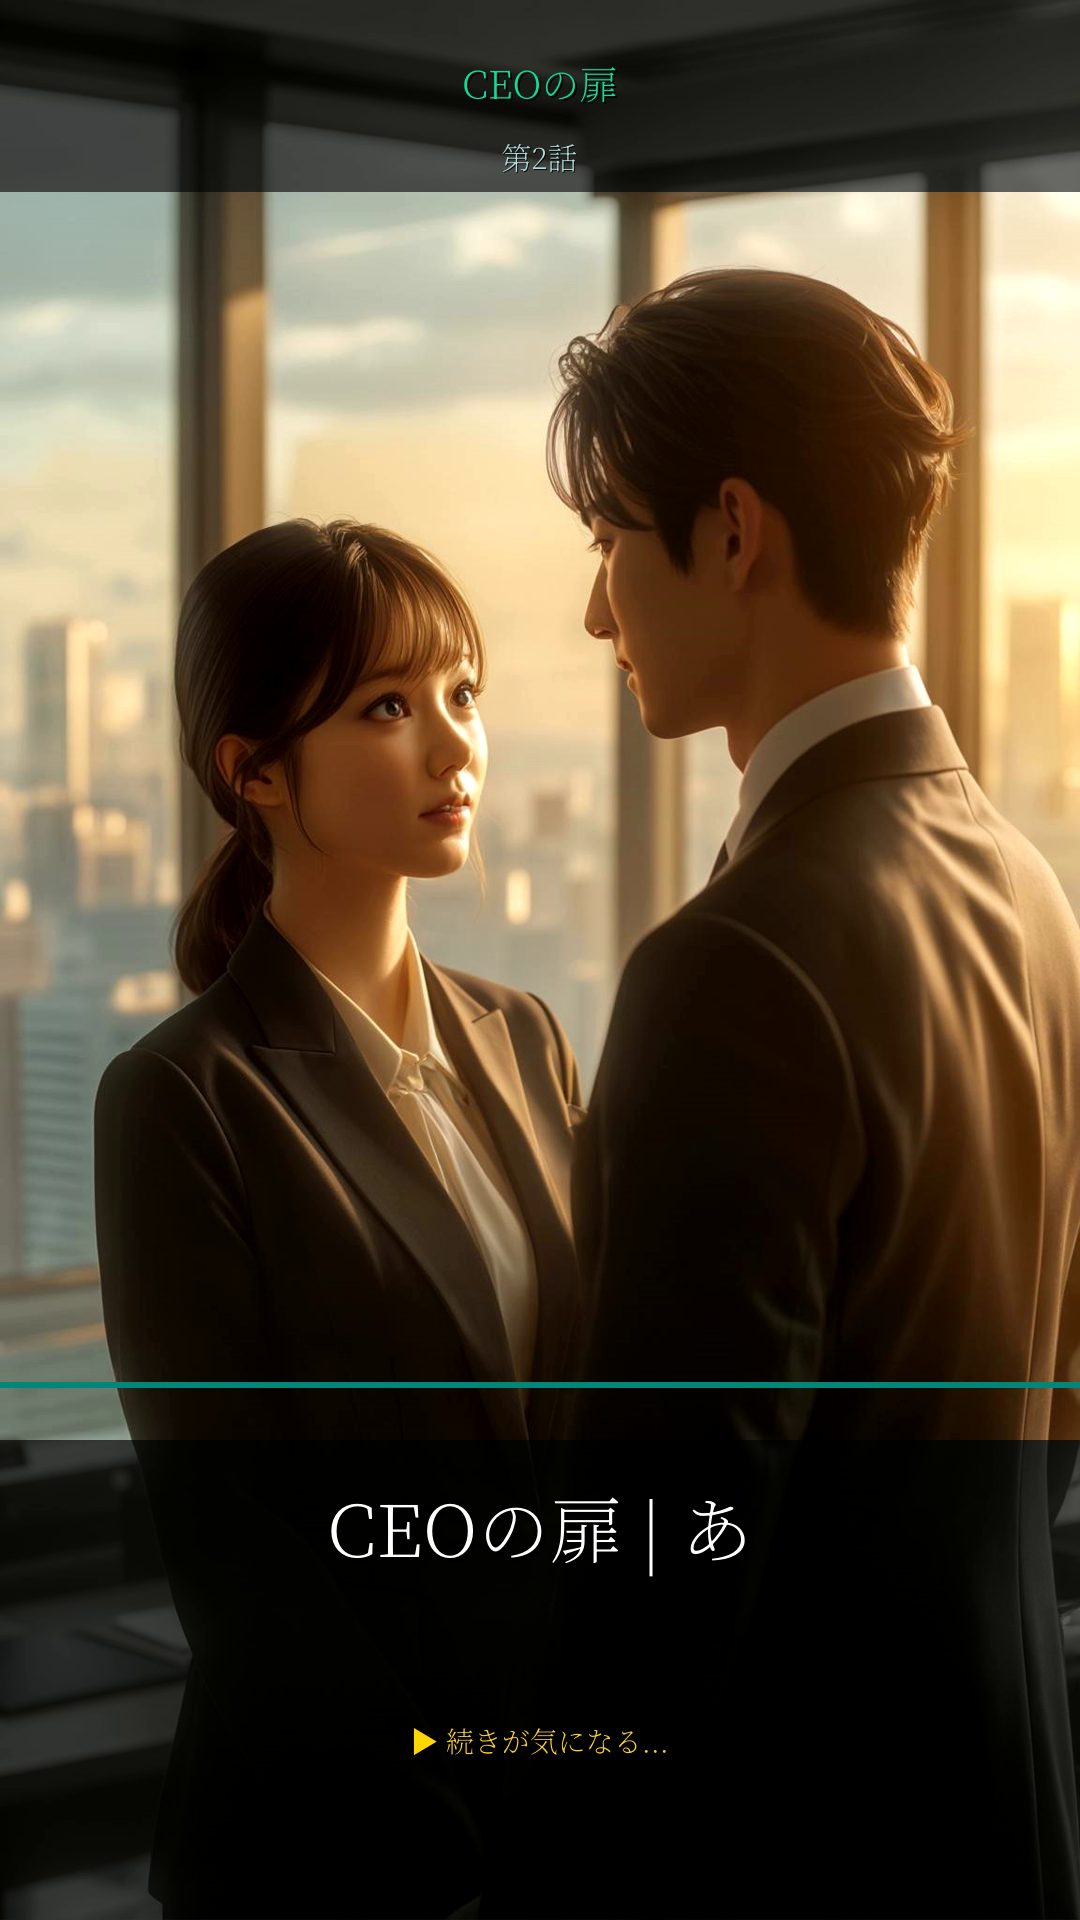
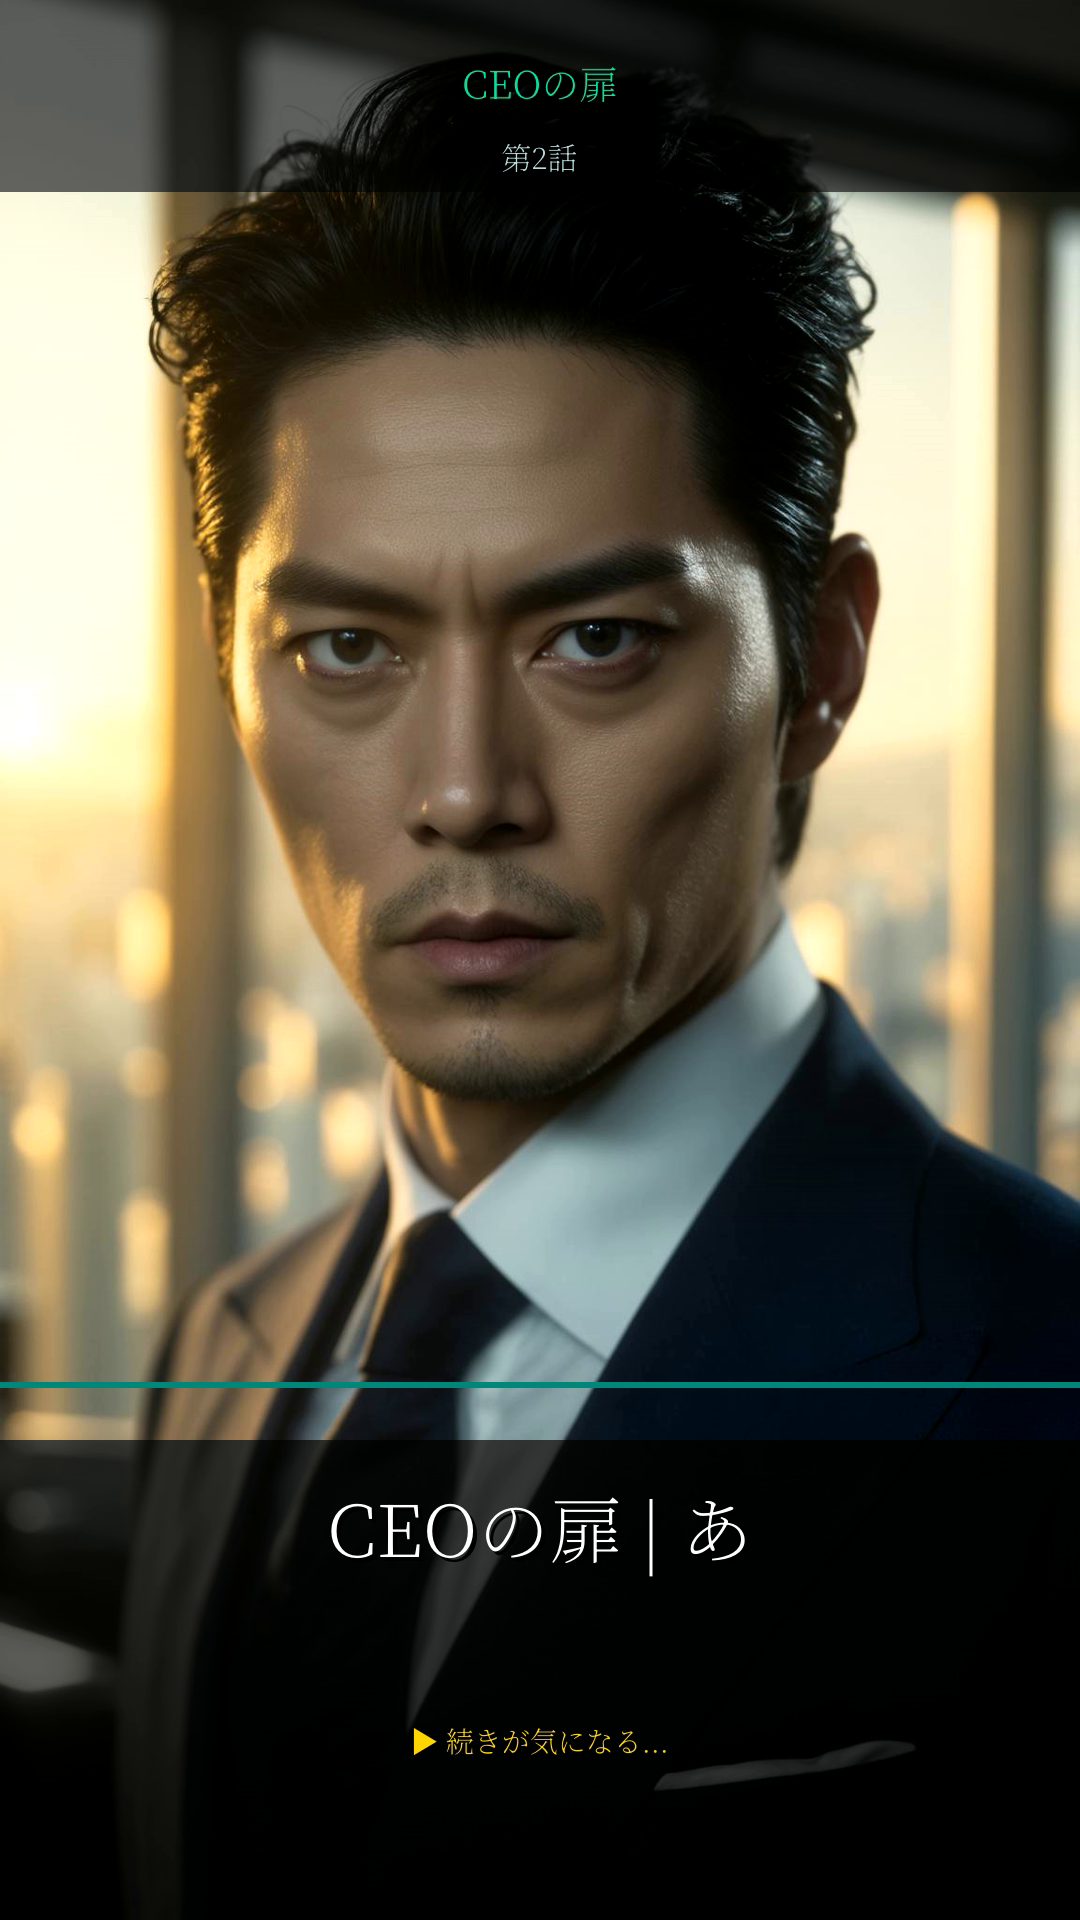
Add ability to upload scene images and thumbnails
Adds API endpoints and frontend functionality to allow users to upload their own scene images and thumbnails, supporting PNG, JPG, and WebP formats with automatic conversion for JPG/WebP to PNG.

Replit-Commit-Author: Agent
Replit-Commit-Session-Id: 2b0de715-0095-4398-8ebe-b4f38cbe86b1
Replit-Commit-Checkpoint-Type: full_checkpoint
Replit-Commit-Event-Id: 56a52c5d-8abb-4d5c-99cf-b4e94432716b
Replit-Commit-Screenshot-Url: https://storage.googleapis.com/screenshot-production-us-central1/ebd59bd0-3924-4315-bd05-0162a425acdb/2b0de715-0095-4398-8ebe-b4f38cbe86b1/UISGzmD
Replit-Helium-Checkpoint-Created: true

diff --git a/app/templates/production.html b/app/templates/production.html
@@ -247,9 +247,15 @@
                         <span style="font-size:0.75rem;color:var(--text-secondary)">未生成</span>
                         {% endif %}
                     </div>
-                    <button class="btn btn-secondary btn-gen-image" data-scene="{{ sn }}" data-testid="btn-gen-image-{{ sn }}" style="width:100%;margin-top:6px;font-size:0.75rem;padding:4px">
-                        {% if asset.has_image %}再生成{% else %}生成{% endif %}
-                    </button>
+                    <div style="display:flex;gap:4px;margin-top:6px">
+                        <button class="btn btn-secondary btn-gen-image" data-scene="{{ sn }}" data-testid="btn-gen-image-{{ sn }}" style="flex:1;font-size:0.75rem;padding:4px">
+                            {% if asset.has_image %}再生成{% else %}生成{% endif %}
+                        </button>
+                        <label class="btn btn-secondary" data-testid="btn-upload-image-{{ sn }}" style="flex:1;font-size:0.75rem;padding:4px;text-align:center;cursor:pointer;margin:0">
+                            アップロード
+                            <input type="file" class="upload-scene-image" data-scene="{{ sn }}" accept="image/png,image/jpeg,image/webp" style="display:none">
+                        </label>
+                    </div>
                 </div>
                 {% endfor %}
             </div>
@@ -467,9 +473,15 @@
                         <span style="font-size:0.8rem;color:var(--text-secondary);padding:20px">サムネイルを生成してください</span>
                         {% endif %}
                     </div>
-                    <button id="btn-gen-thumb" class="btn btn-secondary" data-testid="btn-gen-thumb" style="width:100%;margin-top:6px;font-size:0.8rem">
-                        {% if has_thumbnail %}サムネイル再生成{% else %}サムネイル生成{% endif %}
-                    </button>
+                    <div style="display:flex;gap:4px;margin-top:6px">
+                        <button id="btn-gen-thumb" class="btn btn-secondary" data-testid="btn-gen-thumb" style="flex:1;font-size:0.8rem">
+                            {% if has_thumbnail %}サムネイル再生成{% else %}サムネイル生成{% endif %}
+                        </button>
+                        <label class="btn btn-secondary" data-testid="btn-upload-thumb" style="flex:1;font-size:0.8rem;text-align:center;cursor:pointer;margin:0">
+                            アップロード
+                            <input type="file" id="upload-thumbnail" accept="image/png,image/jpeg,image/webp" style="display:none">
+                        </label>
+                    </div>
                 </div>
                 <div>
                     <div style="font-size:0.85rem;font-weight:600;margin-bottom:6px">最終動画</div>
@@ -923,6 +935,44 @@ document.getElementById('btn-gen-thumb').addEventListener('click', function() {
     .then(handleGenResponse)
     .then(function() { startPolling(); })
     .catch(function(e) { btn.disabled = false; btn.textContent = 'サムネイル生成'; showError(preview, e.message); });
+});
+
+document.querySelectorAll('.upload-scene-image').forEach(function(input) {
+    input.addEventListener('change', function() {
+        var sn = this.getAttribute('data-scene');
+        var file = this.files[0];
+        if (!file) return;
+        var preview = document.getElementById('img-preview-' + sn);
+        preview.innerHTML = '<div style="text-align:center;padding:10px"><div class="spinner" style="margin:0 auto 6px"></div><span style="font-size:0.75rem;color:var(--text-secondary)">アップロード中...</span></div>';
+        var fd = new FormData();
+        fd.append('image', file);
+        fetch('/api/production/' + DRAMA_ID + '/upload-scene-image/' + sn, { method: 'POST', body: fd })
+        .then(function(r) { if (!r.ok) return r.json().then(function(d) { throw new Error(d.error || 'アップロード失敗'); }); return r.json(); })
+        .then(function(data) {
+            preview.innerHTML = '<img src="' + data.url + '?t=' + Date.now() + '" style="width:100%;height:100%;object-fit:cover;border-radius:6px">';
+            var genBtn = document.querySelector('.btn-gen-image[data-scene="' + sn + '"]');
+            if (genBtn) genBtn.textContent = '再生成';
+        })
+        .catch(function(e) { showError(preview, e.message); });
+        this.value = '';
+    });
+});
+
+document.getElementById('upload-thumbnail').addEventListener('change', function() {
+    var file = this.files[0];
+    if (!file) return;
+    var preview = document.getElementById('thumb-preview');
+    preview.innerHTML = '<div style="text-align:center;padding:20px"><div class="spinner" style="margin:0 auto 6px"></div><span style="font-size:0.82rem;color:var(--text-secondary)">アップロード中...</span></div>';
+    var fd = new FormData();
+    fd.append('image', file);
+    fetch('/api/production/' + DRAMA_ID + '/upload-thumbnail', { method: 'POST', body: fd })
+    .then(function(r) { if (!r.ok) return r.json().then(function(d) { throw new Error(d.error || 'アップロード失敗'); }); return r.json(); })
+    .then(function(data) {
+        preview.innerHTML = '<img src="' + data.url + '?t=' + Date.now() + '" style="width:100%;border-radius:6px;max-height:240px;object-fit:contain">';
+        document.getElementById('btn-gen-thumb').textContent = 'サムネイル再生成';
+    })
+    .catch(function(e) { showError(preview, e.message); });
+    this.value = '';
 });
 
 document.getElementById('btn-assemble').addEventListener('click', function() {

diff --git a/app/api/routes.py b/app/api/routes.py
@@ -1609,6 +1609,98 @@ async def api_production_thumbnail(request: Request, drama_id: int):
     return JSONResponse({"message": "Thumbnail generation started", "status": "running"})
 
 
+@router.post("/api/production/{drama_id}/upload-scene-image/{scene_num}")
+async def api_upload_scene_image(request: Request, drama_id: int, scene_num: int):
+    user = get_current_user(request)
+    if not user:
+        return JSONResponse({"error": "認証が必要です"}, status_code=401)
+
+    drama = get_drama_by_id(drama_id)
+    if not drama:
+        return JSONResponse({"error": "Not found"}, status_code=404)
+
+    form = await request.form()
+    image = form.get("image")
+    if not image:
+        return JSONResponse({"error": "画像が必要です"}, status_code=400)
+
+    ALLOWED_EXTENSIONS = {".png", ".jpg", ".jpeg", ".webp"}
+    MAX_SIZE = 10 * 1024 * 1024
+
+    ext = os.path.splitext(image.filename)[1].lower() if image.filename else ""
+    if ext not in ALLOWED_EXTENSIONS:
+        return JSONResponse({"error": f"許可されていないファイル形式です。{', '.join(ALLOWED_EXTENSIONS)} のみ"}, status_code=400)
+
+    contents = await image.read()
+    if len(contents) > MAX_SIZE:
+        return JSONResponse({"error": "ファイルサイズが大きすぎます（最大10MB）"}, status_code=400)
+
+    os.makedirs("app/static/scene_images", exist_ok=True)
+    output_path = f"app/static/scene_images/drama_{drama_id}_scene_{scene_num}_ai.png"
+
+    if ext in (".jpg", ".jpeg", ".webp"):
+        import subprocess
+        temp_path = f"app/static/scene_images/drama_{drama_id}_scene_{scene_num}_upload{ext}"
+        with open(temp_path, "wb") as f:
+            f.write(contents)
+        subprocess.run(["ffmpeg", "-y", "-i", temp_path, output_path], capture_output=True, timeout=10)
+        if os.path.exists(temp_path) and temp_path != output_path:
+            os.remove(temp_path)
+    else:
+        with open(output_path, "wb") as f:
+            f.write(contents)
+
+    url = f"/static/scene_images/drama_{drama_id}_scene_{scene_num}_ai.png"
+    return JSONResponse({"url": url, "message": "アップロード完了"})
+
+
+@router.post("/api/production/{drama_id}/upload-thumbnail")
+async def api_upload_thumbnail(request: Request, drama_id: int):
+    user = get_current_user(request)
+    if not user:
+        return JSONResponse({"error": "認証が必要です"}, status_code=401)
+
+    drama = get_drama_by_id(drama_id)
+    if not drama:
+        return JSONResponse({"error": "Not found"}, status_code=404)
+
+    form = await request.form()
+    image = form.get("image")
+    if not image:
+        return JSONResponse({"error": "画像が必要です"}, status_code=400)
+
+    ALLOWED_EXTENSIONS = {".png", ".jpg", ".jpeg", ".webp"}
+    MAX_SIZE = 10 * 1024 * 1024
+
+    ext = os.path.splitext(image.filename)[1].lower() if image.filename else ""
+    if ext not in ALLOWED_EXTENSIONS:
+        return JSONResponse({"error": f"許可されていないファイル形式です。{', '.join(ALLOWED_EXTENSIONS)} のみ"}, status_code=400)
+
+    contents = await image.read()
+    if len(contents) > MAX_SIZE:
+        return JSONResponse({"error": "ファイルサイズが大きすぎます（最大10MB）"}, status_code=400)
+
+    os.makedirs("app/static/thumbnail", exist_ok=True)
+    output_path = f"app/static/thumbnail/drama_{drama_id}.png"
+
+    if ext in (".jpg", ".jpeg", ".webp"):
+        import subprocess
+        temp_path = f"app/static/thumbnail/drama_{drama_id}_upload{ext}"
+        with open(temp_path, "wb") as f:
+            f.write(contents)
+        subprocess.run(["ffmpeg", "-y", "-i", temp_path, output_path], capture_output=True, timeout=10)
+        if os.path.exists(temp_path) and temp_path != output_path:
+            os.remove(temp_path)
+    else:
+        with open(output_path, "wb") as f:
+            f.write(contents)
+
+    update_drama(drama_id, thumbnail_url=output_path)
+
+    url = f"/static/thumbnail/drama_{drama_id}.png"
+    return JSONResponse({"url": url, "message": "アップロード完了"})
+
+
 @router.post("/api/production/{drama_id}/assemble")
 async def api_production_assemble(request: Request, drama_id: int):
     user = get_current_user(request)
